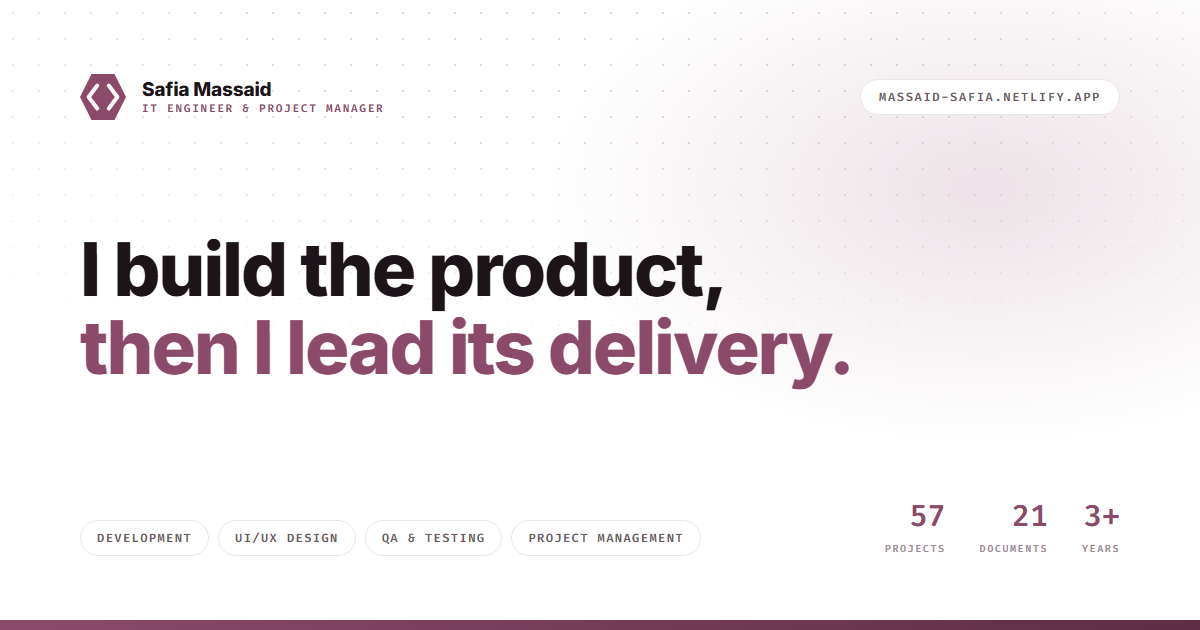
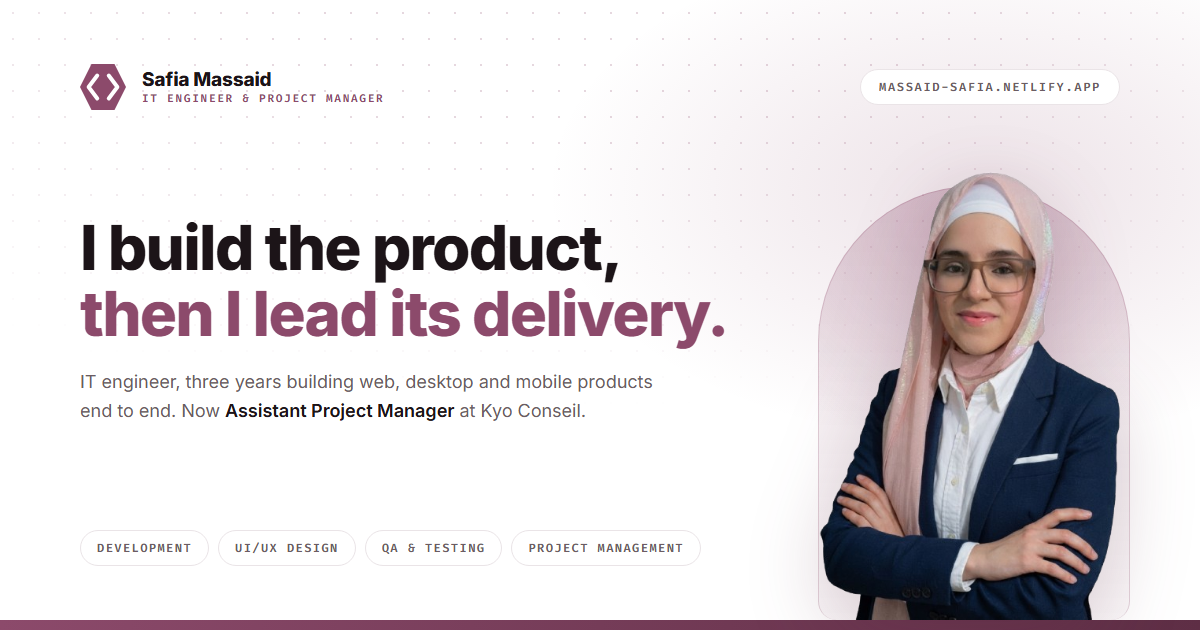
deisgn portfolio

diff --git a/tools/og-cover.html b/tools/og-cover.html
@@ -4,11 +4,11 @@
 <head>
   <meta charset="utf-8">
   <meta name="robots" content="noindex, nofollow">
-  <title>OG cover source — rendered to images/og-cover.png by tools/build-images.js</title>
+  <title>OG cover source — rendered to images/og-cover.png with headless Chrome</title>
   <link rel="preconnect" href="https://fonts.googleapis.com">
   <link rel="preconnect" href="https://fonts.gstatic.com" crossorigin>
   <link rel="stylesheet"
-    href="https://fonts.googleapis.com/css2?family=Inter:wght@400;600;800&family=Fira+Code:wght@500;600&display=swap">
+    href="https://fonts.googleapis.com/css2?family=Inter:wght@400;600;800&family=Fira+Code:wght@500;600;700&display=swap">
   <style>
     * { margin: 0; padding: 0; box-sizing: border-box; }
 
@@ -20,7 +20,7 @@
       background: #fff;
       font-family: Inter, system-ui, sans-serif;
       color: #1C1418;
-      padding: 74px 80px;
+      padding: 64px 80px;
       display: flex;
       flex-direction: column;
       justify-content: space-between;
@@ -69,9 +69,12 @@
       padding: 9px 18px; background: #fff;
     }
 
+    /* Headline and lede share the left column: 720px keeps every line clear
+       of the portrait, which starts at 804px. */
+    .say { position: relative; width: 720px; }
+
     h1 {
-      position: relative;
-      font-size: 74px;
+      font-size: 62px;
       font-weight: 800;
       letter-spacing: -.028em;
       line-height: 1.06;
@@ -80,9 +83,20 @@
 
     h1 em { font-style: normal; color: #8C4A6B; display: block; }
 
-    .foot { position: relative; display: flex; align-items: flex-end; gap: 40px; }
+    /* The hero lede, shortened to the part that dates the rest of the page:
+       who she is now. No counts — a number baked into a cached share card
+       is wrong the week after a project lands. */
+    .lede {
+      margin-top: 20px;
+      font-size: 18px;
+      line-height: 1.62;
+      color: #6B5C63;
+      max-width: 585px;
+    }
 
-    .disc { display: flex; flex-wrap: wrap; gap: 9px; }
+    .lede b { font-weight: 600; color: #1C1418; }
+
+    .disc { position: relative; display: flex; flex-wrap: wrap; gap: 9px; width: 720px; }
 
     .disc span {
       font-family: 'Fira Code', monospace;
@@ -92,16 +106,38 @@
       padding: 9px 16px; background: #fff;
     }
 
-    .stats { margin-left: auto; display: flex; gap: 34px; text-align: right; }
-    .stats div b {
-      display: block;
-      font-family: 'Fira Code', monospace;
-      font-size: 30px; font-weight: 600; color: #8C4A6B;
+    /* --- Portrait -------------------------------------------------
+       Same cut-out and same plum arch as the site hero, so the share
+       card and the page a click later show the same picture. */
+    .portrait {
+      position: absolute;
+      right: 56px;
+      bottom: 10px;
+      width: 340px;
+      height: 468px;
     }
-    .stats div span {
-      font-family: 'Fira Code', monospace;
-      font-size: 10px; font-weight: 600;
-      letter-spacing: .16em; text-transform: uppercase; color: #9C8D94;
+
+    .portrait::before {
+      content: "";
+      position: absolute;
+      inset: 34px 14px 0;
+      border-radius: 200px 200px 24px 24px;
+      background:
+        radial-gradient(120% 80% at 50% 8%, rgba(140, 74, 107, .22), transparent 68%),
+        linear-gradient(180deg, rgba(140, 74, 107, .15), rgba(140, 74, 107, .03));
+      border: 1px solid rgba(140, 74, 107, .22);
+      border-bottom: 0;
+    }
+
+    .portrait img {
+      position: absolute;
+      inset: 0;
+      z-index: 1;
+      width: 100%;
+      height: 100%;
+      object-fit: contain;
+      object-position: bottom center;
+      filter: drop-shadow(0 24px 38px rgba(94, 46, 69, .22));
     }
   </style>
 </head>
@@ -125,24 +161,27 @@
     <span class="badge">massaid-safia.netlify.app</span>
   </div>
 
-  <h1>
-    I build the product,
-    <em>then I lead its delivery.</em>
-  </h1>
-
-  <div class="foot">
-    <div class="disc">
-      <span>Development</span>
-      <span>UI/UX Design</span>
-      <span>QA &amp; Testing</span>
-      <span>Project Management</span>
-    </div>
-    <div class="stats">
-      <div><b>+40</b><span>Projects</span></div>
-      <div><b>21</b><span>Documents</span></div>
-      <div><b>3+</b><span>Years</span></div>
-    </div>
+  <div class="say">
+    <h1>
+      I build the product,
+      <em>then I lead its delivery.</em>
+    </h1>
+    <p class="lede">
+      IT engineer, three years building web, desktop and mobile products end to
+      end. Now <b>Assistant Project Manager</b> at Kyo Conseil.
+    </p>
   </div>
+
+  <div class="disc">
+    <span>Development</span>
+    <span>UI/UX Design</span>
+    <span>QA &amp; Testing</span>
+    <span>Project Management</span>
+  </div>
+
+  <figure class="portrait">
+    <img src="../images/safia-massaid.png" alt="">
+  </figure>
 
   <div class="bar"></div>
 </body>
